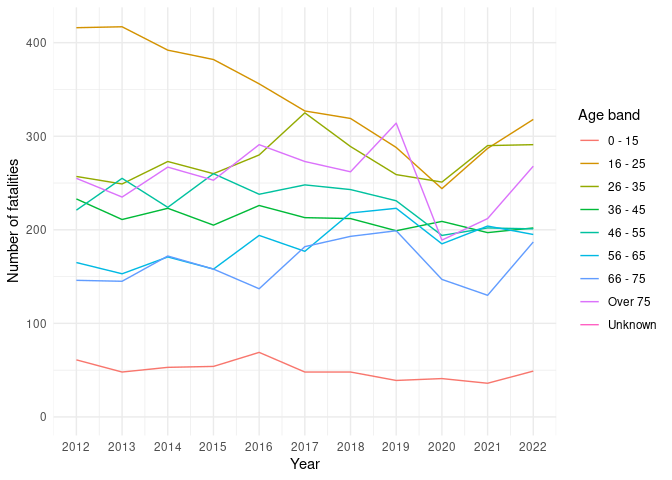
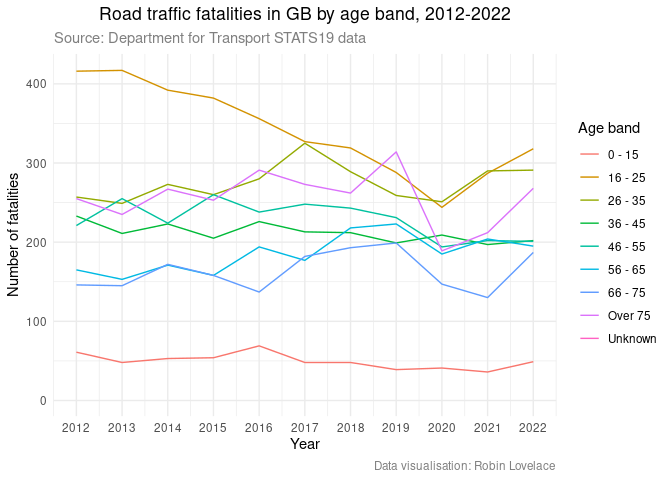
Update plots

diff --git a/README.md b/README.md
@@ -100,7 +100,7 @@ fatalities_by_age |>
   ggplot(aes(accident_year, n, group = age_band_of_casualty)) +
   geom_line(aes(colour = age_band_of_casualty)) +
   theme_minimal() +
-  labs(x = "Year", y = "Number of fatalities", colour = "Age band")
+  labs(x = "Year", y = "Number of fatalities", colour = "Age band") 
 ```
 
 ![](README_files/figure-commonmark/unnamed-chunk-7-1.png)
@@ -140,7 +140,21 @@ fatalities_by_age |>
   ggplot(aes(accident_year, n, group = age_band)) +
   geom_line(aes(colour = age_band)) +
   theme_minimal() +
-  labs(x = "Year", y = "Number of fatalities", colour = "Age band")
+  labs(x = "Year", y = "Number of fatalities", colour = "Age band") +
+  # Add graph title:
+  ggtitle("Road traffic fatalities in GB by age band, 1979-2022") +
+  # Add subtitle:
+  labs(subtitle = "Source: Department for Transport STATS19 data") +
+  # Add author name:
+  # labs(caption = "Data visualisation: Robin Lovelace\nSee github.com/robinlovelace for reproducible code") +
+  labs(caption = "Data visualisation: Robin Lovelace") +
+  # Add a theme:
+  theme(
+    plot.title = element_text(hjust = 0.5), 
+  # Make caption text grey:
+    plot.caption = element_text(colour = "grey50"),
+    plot.subtitle = element_text(colour = "grey50")
+    )
 ```
 
 ![](README_files/figure-commonmark/unnamed-chunk-9-1.png)
@@ -163,10 +177,64 @@ fatalities_by_age |>
   geom_line(aes(colour = age_band)) +
   theme_minimal() +
   labs(x = "Year", y = "Number of fatalities", colour = "Age band") +
-  scale_x_continuous(breaks = seq(2012, 2022, 1))
+  scale_x_continuous(breaks = seq(2012, 2022, 1)) +
+  # Add graph title:
+  ggtitle("Road traffic fatalities in GB by age band, 2012-2022") +
+  # Add subtitle:
+  labs(subtitle = "Source: Department for Transport STATS19 data") +
+  # Add author name:
+  # labs(caption = "Data visualisation: Robin Lovelace\nSee github.com/robinlovelace for reproducible code") +
+  labs(caption = "Data visualisation: Robin Lovelace") +
+  # Add a theme:
+  theme(
+    plot.title = element_text(hjust = 0.5), 
+  # Make caption text grey:
+    plot.caption = element_text(colour = "grey50"),
+    plot.subtitle = element_text(colour = "grey50")
+    )
 ```
 
 ![](README_files/figure-commonmark/unnamed-chunk-10-1.png)
+
+``` r
+# Same with just 0-15 and 16-25 year olds:
+fatalities_by_age = fatalities |>
+  filter(accident_year >= 2012) |>
+  filter(age_band == "0 - 15" | age_band == "16 - 25") |>
+  group_by(accident_year, age_band) |>
+  summarise(n = n()) |>
+  arrange(desc(n))
+```
+
+    `summarise()` has grouped output by 'accident_year'. You can override using the
+    `.groups` argument.
+
+``` r
+fatalities_by_age |>
+  ggplot(aes(accident_year, n, group = age_band)) +
+  geom_line(aes(colour = age_band)) +
+  theme_minimal() +
+  labs(x = "Year", y = "Number of fatalities", colour = "Age band") +
+  scale_x_continuous(breaks = seq(2012, 2022, 1)) +
+  # Y axis starting at 0:
+  scale_y_continuous(limits = c(0, NA))  +
+  # Add graph title:
+  ggtitle("Road traffic fatalities in GB by age band, 2012-2022") +
+  # Add subtitle:
+  labs(subtitle = "Source: Department for Transport STATS19 data") +
+  # Add author name:
+  # labs(caption = "Data visualisation: Robin Lovelace\nSee github.com/robinlovelace for reproducible code") +
+  labs(caption = "Data visualisation: Robin Lovelace") +
+  # Add a theme:
+  theme(
+    plot.title = element_text(hjust = 0.5), 
+  # Make caption text grey:
+    plot.caption = element_text(colour = "grey50"),
+    plot.subtitle = element_text(colour = "grey50")
+    )
+```
+
+![](README_files/figure-commonmark/unnamed-chunk-11-1.png)
 
 ``` r
 # Same with just 0-15 year olds:
@@ -187,12 +255,79 @@ fatalities_by_age |>
   geom_line(aes(colour = age_band)) +
   theme_minimal() +
   labs(x = "Year", y = "Number of fatalities", colour = "Age band") +
-  scale_x_continuous(breaks = seq(2012, 2022, 1))
+  scale_x_continuous(breaks = seq(2012, 2022, 1)) +
+  # Y axis starting at 0:
+  scale_y_continuous(limits = c(0, NA))  +
+  # Add graph title:
+  ggtitle("Road traffic fatalities in GB aged 0-15, 2012-2022") +
+  # Add subtitle:
+  labs(subtitle = "Source: Department for Transport STATS19 data") +
+  # Add author name:
+  # labs(caption = "Data visualisation: Robin Lovelace\nSee github.com/robinlovelace for reproducible code") +
+  labs(caption = "Data visualisation: Robin Lovelace") +
+  # Add a theme:
+  theme(
+    plot.title = element_text(hjust = 0.5), 
+  # Make caption text grey:
+    plot.caption = element_text(colour = "grey50"),
+    plot.subtitle = element_text(colour = "grey50")
+    )
 ```
 
-![](README_files/figure-commonmark/unnamed-chunk-11-1.png)
+![](README_files/figure-commonmark/unnamed-chunk-12-1.png)
+
+``` r
+# Same with just 16-25 year olds:
+fatalities_by_age = fatalities |>
+  filter(accident_year >= 2012) |>
+  filter(age_band == "16 - 25") |>
+  group_by(accident_year, age_band) |>
+  summarise(n = n()) |>
+  arrange(desc(n))
+```
+
+    `summarise()` has grouped output by 'accident_year'. You can override using the
+    `.groups` argument.
+
+``` r
+fatalities_by_age |>
+  ggplot(aes(accident_year, n, group = age_band)) +
+  geom_line(aes(colour = age_band)) +
+  theme_minimal() +
+  labs(x = "Year", y = "Number of fatalities", colour = "Age band") +
+  scale_x_continuous(breaks = seq(2012, 2022, 1)) +
+  # Y axis starting at 0:
+  scale_y_continuous(limits = c(0, NA)) +
+  # Add graph title:
+  ggtitle("Road traffic fatalities in GB aged 16-25, 2012-2022") +
+  # Add subtitle:
+  labs(subtitle = "Source: Department for Transport STATS19 data") +
+  # Add author name:
+  # labs(caption = "Data visualisation: Robin Lovelace\nSee github.com/robinlovelace for reproducible code") +
+  labs(caption = "Data visualisation: Robin Lovelace") +
+  # Add a theme:
+  theme(
+    plot.title = element_text(hjust = 0.5), 
+  # Make caption text grey:
+    plot.caption = element_text(colour = "grey50"),
+    plot.subtitle = element_text(colour = "grey50")
+    )
+```
+
+![](README_files/figure-commonmark/unnamed-chunk-13-1.png)
 
 The same information as a table:
+
+``` r
+fatalities_by_age = fatalities |>
+  filter(accident_year >= 2012) |>
+  filter(age_band == "0 - 15" | age_band == "16 - 25") |>
+  group_by(accident_year, age_band) |>
+  summarise(n = n())
+```
+
+    `summarise()` has grouped output by 'accident_year'. You can override using the
+    `.groups` argument.
 
 ``` r
 fatalities_by_age |>
@@ -201,19 +336,19 @@ fatalities_by_age |>
   knitr::kable()
 ```
 
-| accident_year | 0 - 15 |
-|--------------:|-------:|
-|          2022 |     49 |
-|          2021 |     36 |
-|          2020 |     41 |
-|          2019 |     39 |
-|          2018 |     48 |
-|          2017 |     48 |
-|          2016 |     69 |
-|          2015 |     54 |
-|          2014 |     53 |
-|          2013 |     48 |
-|          2012 |     61 |
+| accident_year | 0 - 15 | 16 - 25 |
+|--------------:|-------:|--------:|
+|          2022 |     49 |     318 |
+|          2021 |     36 |     287 |
+|          2020 |     41 |     244 |
+|          2019 |     39 |     288 |
+|          2018 |     48 |     319 |
+|          2017 |     48 |     327 |
+|          2016 |     69 |     356 |
+|          2015 |     54 |     382 |
+|          2014 |     53 |     392 |
+|          2013 |     48 |     417 |
+|          2012 |     61 |     416 |
 
 Next, we’ll join the collisions dataset with the casualties, so we can
 find out where casualties happened etc.
